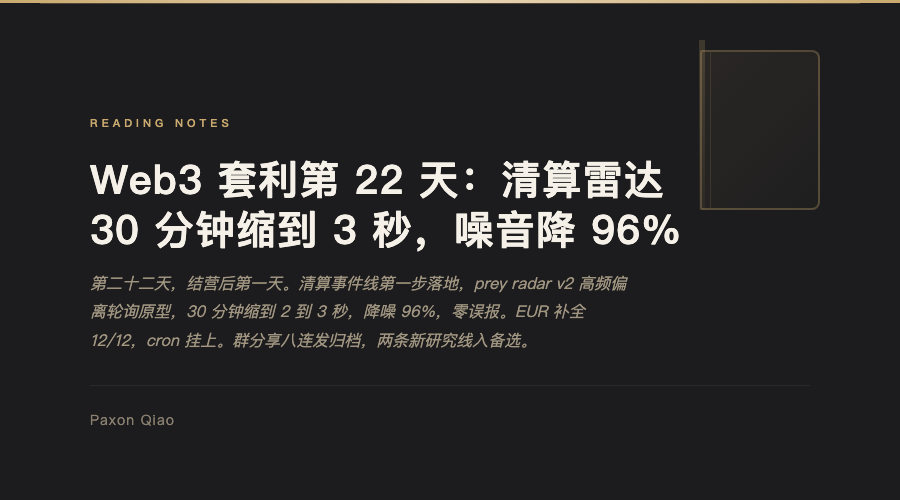
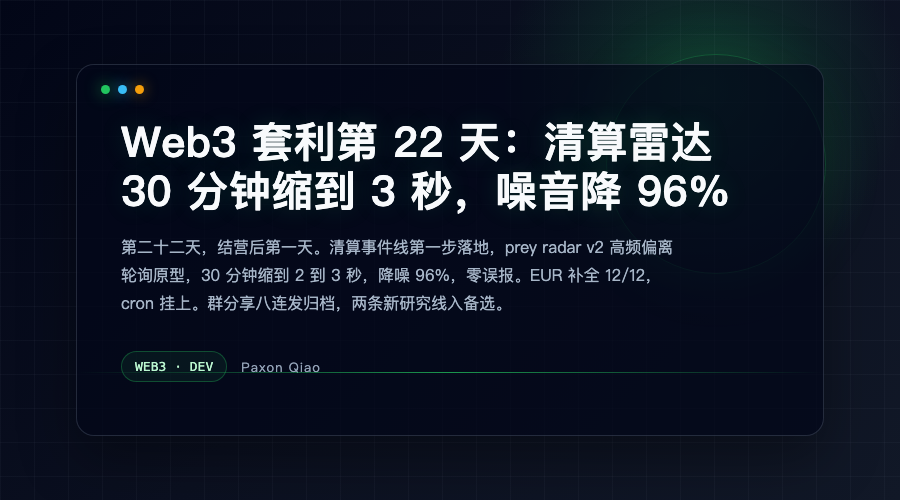
D22封面修复: 二进制混用致literary fallback+正文嵌封面段, 改用target/release新二进制重ship media_id=100012020, HTML 0泄漏+geek-black 247KB, daily补复盘

diff --git a/social/wechat/2026-08-26-d22-prey-radar-v2.cover.html b/social/wechat/2026-08-26-d22-prey-radar-v2.cover.html
@@ -4,20 +4,36 @@
 <meta charset="UTF-8"><meta name="viewport" content="width=device-width,initial-scale=1"><title>Cover</title>
 <style>
 *{margin:0;padding:0;box-sizing:border-box}
-body{width:900px;height:500px;overflow:hidden;font-family:'PingFang SC','Hiragino Sans GB','Microsoft YaHei',serif}
-.cover{width:900px;height:500px;background:#1c1c1e;position:relative;display:flex;flex-direction:column;justify-content:flex-end;padding:80px 90px 70px}
-.cover::before{content:'';position:absolute;top:0;left:0;right:0;height:3px;background:linear-gradient(90deg,#c9a96e,#e8d5b7,#c9a96e)}
-.cover::after{content:'';position:absolute;top:3px;left:40px;right:40px;height:1px;background:rgba(201,169,110,0.3)}
-.book-icon{position:absolute;top:50px;right:80px;width:120px;height:160px;border:2px solid rgba(201,169,110,0.3);border-radius:2px 8px 8px 2px;background:linear-gradient(135deg,rgba(201,169,110,0.08),rgba(201,169,110,0.02))}
-.book-icon::after{content:'';position:absolute;left:8px;top:0;bottom:0;width:1px;background:rgba(201,169,110,0.15)}
-.book-spine{position:absolute;top:40px;right:195px;width:6px;height:170px;background:linear-gradient(180deg,rgba(201,169,110,0.2),rgba(201,169,110,0.05));border-radius:1px}
-.tag{font-size:11px;font-weight:600;letter-spacing:4px;color:#c9a96e;text-transform:uppercase;margin-bottom:24px}
-.title{font-size:40px;font-weight:900;line-height:1.25;color:#f5f0e8;margin-bottom:14px;letter-spacing:1px;max-width:620px}
-.subtitle{font-size:16px;color:#a09580;line-height:1.8;margin-bottom:30px;max-width:540px;font-style:italic}
-.meta{display:flex;align-items:center;gap:10px;border-top:1px solid rgba(255,255,255,0.06);padding-top:24px}
-.author{font-size:14px;color:#8a8070;letter-spacing:1px}
-.dot{color:#c9a96e;margin:0 6px}
+body{width:900px;height:500px;overflow:hidden;font-family:'SF Pro Text',-apple-system,'PingFang SC','Hiragino Sans GB','Microsoft YaHei',sans-serif;background:#030712}
+.cover{width:900px;height:500px;position:relative;overflow:hidden;background:radial-gradient(circle at 78% 18%,rgba(34,197,94,.22),transparent 25%),linear-gradient(135deg,#020617 0%,#0b1020 48%,#111827 100%);color:#e5edf7;padding:64px 76px}
+.grid{position:absolute;inset:0;background-image:linear-gradient(rgba(148,163,184,.08) 1px,transparent 1px),linear-gradient(90deg,rgba(148,163,184,.08) 1px,transparent 1px);background-size:34px 34px;opacity:.65}
+.glow{position:absolute;right:74px;top:54px;width:220px;height:220px;border:1px solid rgba(34,197,94,.28);border-radius:50%;box-shadow:0 0 60px rgba(34,197,94,.16)}
+.panel{position:relative;height:100%;border:1px solid rgba(148,163,184,.22);border-radius:18px;background:rgba(2,6,23,.72);box-shadow:0 22px 55px rgba(0,0,0,.35);padding:38px 44px;display:flex;flex-direction:column;justify-content:center}
+.toolbar{position:absolute;top:20px;left:24px;display:flex;gap:8px}
+.dot{width:9px;height:9px;border-radius:50%;background:#22c55e;box-shadow:0 0 16px rgba(34,197,94,.8)}
+.dot:nth-child(2){background:#38bdf8;box-shadow:0 0 14px rgba(56,189,248,.7)}
+.dot:nth-child(3){background:#f59e0b;box-shadow:0 0 14px rgba(245,158,11,.65)}
+.tag{display:inline-block;color:#86efac;font-size:11px;font-weight:800;letter-spacing:4px;text-transform:uppercase;margin-bottom:24px}
+.prompt{color:#22c55e;margin-right:10px}
+.title{font-size:42px;font-weight:900;line-height:1.16;color:#f8fafc;max-width:640px;margin-bottom:18px;letter-spacing:.4px;text-shadow:0 0 24px rgba(34,197,94,.16)}
+.subtitle{font-size:16px;color:#a7b6c8;line-height:1.75;max-width:560px;margin-bottom:34px}
+.meta{display:flex;align-items:center;gap:14px;color:#94a3b8;font-size:13px}
+.chip{border:1px solid rgba(34,197,94,.32);border-radius:999px;padding:7px 13px;color:#bbf7d0;background:rgba(34,197,94,.08);font-family:'SF Mono',Consolas,monospace}
+.author{letter-spacing:1px}
+.scanline{position:absolute;left:0;right:0;bottom:62px;height:1px;background:linear-gradient(90deg,transparent,#22c55e,transparent);opacity:.75}
 </style>
 </head>
-<body><div class="cover"><div class="book-icon"></div><div class="book-spine"></div><div class="tag">READING NOTES</div><h1 class="title">Web3 套利第 22 天：清算雷达 30 分钟缩到 3 秒，噪音降 96%</h1><p class="subtitle">第二十二天，结营后第一天。清算事件线第一步落地，prey radar v2 高频偏离轮询原型，30 分钟缩到 2 到 3 秒，降噪 96%，零误报。EUR 补全 12/12，cron 挂上。群分享八连发归档，两条新研究线入备选。</p><div class="meta"><span class="author">Paxon Qiao</span></div></div></body>
+<body>
+<main class="cover" data-cover-style="geek-black">
+  <div class="grid"></div><div class="glow"></div>
+  <section class="panel">
+    <div class="toolbar"><span class="dot"></span><span class="dot"></span><span class="dot"></span></div>
+
+    <h1 class="title">Web3 套利第 22 天：清算雷达 30 分钟缩到 3 秒，噪音降 96%</h1>
+    <p class="subtitle">第二十二天，结营后第一天。清算事件线第一步落地，prey radar v2 高频偏离轮询原型，30 分钟缩到 2 到 3 秒，降噪 96%，零误报。EUR 补全 12/12，cron 挂上。群分享八连发归档，两条新研究线入备选。</p>
+    <div class="meta"><span class="chip">WEB3 · DEV</span><span class="author">Paxon Qiao</span></div>
+    <div class="scanline"></div>
+  </section>
+</main>
+</body>
 </html>

diff --git a/social/wechat/2026-08-26-d22-prey-radar-v2.html b/social/wechat/2026-08-26-d22-prey-radar-v2.html
@@ -9,29 +9,6 @@
 <main style="box-sizing: border-box; max-width: 720px; margin: 0 auto; background:#fff; padding:28px 24px; box-shadow:0 12px 36px rgba(15,23,42,0.08);">
 <section style="font-family: -apple-system, 'PingFang SC', 'Hiragino Sans GB', 'Microsoft YaHei', sans-serif; font-size: 15px; line-height: 1.9; letter-spacing: 0.05em; color: #333; background: #fff; padding: 0 4px;">
 
-<!DOCTYPE html>
-<html lang="zh-CN">
-<head>
-<meta charset="UTF-8"><meta name="viewport" content="width=device-width,initial-scale=1"><title>Cover</title>
-<style>
-*{margin:0;padding:0;box-sizing:border-box}
-body{width:900px;height:500px;overflow:hidden;font-family:'PingFang SC','Hiragino Sans GB','Microsoft YaHei',serif}
-.cover{width:900px;height:500px;background:#1c1c1e;position:relative;display:flex;flex-direction:column;justify-content:flex-end;padding:80px 90px 70px}
-.cover::before{content:'';position:absolute;top:0;left:0;right:0;height:3px;background:linear-gradient(90deg,#c9a96e,#e8d5b7,#c9a96e)}
-.cover::after{content:'';position:absolute;top:3px;left:40px;right:40px;height:1px;background:rgba(201,169,110,0.3)}
-.book-icon{position:absolute;top:50px;right:80px;width:120px;height:160px;border:2px solid rgba(201,169,110,0.3);border-radius:2px 8px 8px 2px;background:linear-gradient(135deg,rgba(201,169,110,0.08),rgba(201,169,110,0.02))}
-.book-icon::after{content:'';position:absolute;left:8px;top:0;bottom:0;width:1px;background:rgba(201,169,110,0.15)}
-.book-spine{position:absolute;top:40px;right:195px;width:6px;height:170px;background:linear-gradient(180deg,rgba(201,169,110,0.2),rgba(201,169,110,0.05));border-radius:1px}
-.tag{font-size:11px;font-weight:600;letter-spacing:4px;color:#c9a96e;text-transform:uppercase;margin-bottom:24px}
-.title{font-size:40px;font-weight:900;line-height:1.25;color:#f5f0e8;margin-bottom:14px;letter-spacing:1px;max-width:620px}
-.subtitle{font-size:16px;color:#a09580;line-height:1.8;margin-bottom:30px;max-width:540px;font-style:italic}
-.meta{display:flex;align-items:center;gap:10px;border-top:1px solid rgba(255,255,255,0.06);padding-top:24px}
-.author{font-size:14px;color:#8a8070;letter-spacing:1px}
-.dot{color:#c9a96e;margin:0 6px}
-</style>
-</head>
-<body><div class="cover"><div class="book-icon"></div><div class="book-spine"></div><div class="tag">READING NOTES</div><h1 class="title">Web3 套利第 22 天：清算雷达 30 分钟缩到 3 秒，噪音降 96%</h1><p class="subtitle">第二十二天，结营后第一天。清算事件线第一步落地，prey radar v2 高频偏离轮询原型，30 分钟缩到 2 到 3 秒，降噪 96%，零误报。EUR 补全 12/12，cron 挂上。群分享八连发归档，两条新研究线入备选。</p><div class="meta"><span class="author">Paxon Qiao</span></div></div></body>
-</html>
 <h2 style="font-size: 19px; font-weight: 800; color: #1a1a1a; margin: 2.3em 0 1em; padding: 0 0 10px 14px; border-left: 5px solid #2c2c2c; border-bottom: 1px solid #e5e7eb; letter-spacing: 1px; line-height:1.45;">Web3 套利第 22 天：清算雷达 30 分钟缩到 3 秒，噪音降 96%</h2>
 
 <section style="margin: 1.9em 0; padding: 18px 20px 18px 24px; background: #f8f8f8; border: 1px solid #e5e7eb; border-left: 4px solid #2c2c2c; border-radius: 0 8px 8px 0; box-shadow: 0 2px 8px rgba(15,23,42,0.05); color: #888; font-size: 15px; line-height: 1.9; letter-spacing: 0.08em;">链上套利残酷共学 · 结营后第一天

diff --git a/daily/2026-08-26.md b/daily/2026-08-26.md
@@ -85,3 +85,97 @@
 - 封面防泄漏 0 处 + qrcode 新码 0822 md5 一致（a980989a9003...）
 - 结果：ship 成功 media_id=100012006，手机预览已发 qpj4812701762（test-yulan ret=0）
 - 下一步：人工微信后台确认封面/原创后发布
+# 2026-08-26（结营后 Day 1）— prey radar v2：高频偏离轮询原型
+
+> 定位：D21 结营后「清算事件线（最高优先）」第一步落地。官方 21 天路线图已完成（D21=08-25 结营），今天开始执行 21 天总结里的下一步主攻方向 #1。
+
+## 主线：高频偏离轮询原型（30min cron → 2-3s/tick）
+
+**为什么做**：v1 prey radar 是 30min cron 全市场扫描，实测跑一次 >180s 超时（200 市场串行 ≈720s）——30min 粒度对清算窗口（秒~分钟级）毫无意义。08-25 daily 已定信号链修正：不监听预言机交易，改高频轮询「现货 vs oracle 偏离」→ 偏离突变 = 预言机即将更新 = 清算窗口临近。
+
+**怎么做**（四个实测关键）：
+1. **JSON-RPC 批量 eth_call 可用**（publicnode 2.2s/批）——1 次请求拿全部 oracle price()。此前误判「不支持批量」= 拿代币地址调 price() 会 revert，不是批量问题
+2. **DeFiLlama 批量多币种 >10 币单请求返回空**（9 币 1.9s 正常）→ 分块 ≤8
+3. **checksum 坑**：DeFiLlama key 全小写 vs GraphQL checksum 地址 → 不统一小写全 cache miss（WETH 天然小写才侥幸命中）
+4. watchlist 默认 top-12 活跃市场（按 supply），每 tick = 1 次批量 RPC + 1 次批量 DeFiLlama（现货 5s 缓存）
+
+**结果**（全部实测）：
+- `--once` 单次快照 9.7s：11/12 市场解析成功；活跃市场全部 ok（偏离 <25bps），mGLO −638bps（oracle 落后偏安全，与 v1 一致）；**当前无埋雷**
+- 45s 高频实测：降采样 22 条（vs 全量 540，降 96%）；安静期漂移仅 **−1.7~+1.7bps**/tick，零误报；有效节奏 ~2.2-2.5s/tick
+- 信号方向语义确认：`dev_bps = (oracle−spot)/oracle`，**正值 = oracle 高估 = 危险方向**（下修 → 清算窗口）
+
+**已知限制**：cbBTC→EURC 类 EUR 报价预言机未解析（需 EUR/USD 交叉汇率）；节奏受公共 RPC 限制（Flashblocks WS 到位后才 <200ms）；DeFiLlama 现货延迟 ~5-7s；未接 HF scanner 联动。
+
+**意义**：清算事件线从「30min 级哨兵」升级到「2-3s 级雷达」——偏离突变检测（Δ≥20bps/tick）是预言机更新的前置信号，这是结营后主攻方向 #1 的执行基建第一块。下一环：挂 cron 窗口报警 → Flashblocks WS → HF scanner 联动。
+
+## 产出
+
+- `scripts/morpho_prey_radar_v2.py` — 高频偏离轮询原型（--once 快照 / --duration N --quiet 窗口报警 / --watch N 可调）
+- `notes/solana/prey-radar-v2-highfreq-20260826.md` — 设计 + 实测 + 限制 + 下一步
+- `data/prey_radar_v2.jsonl` — 降采样高频数据（不入库）
+
+## 收尾
+
+- [x] 新脚本查重（git log + scripts/ 清单：无既有高频轮询器）
+- [x] README 工具区挂载 v2 条目
+- [x] 45s 实测验证（非模拟）
+- [ ] ICL 打卡 08-26（当天必须完成）
+- [x] ICL 打卡 08-26 完成 ✅（HTTP 201, id=cmt9qi2ui13o8ro297pana299, proxy 通道）
+
+## 追加：群分享归档（Taoli.Tools 科普文）
+
+- 用户贴 Taoli.Tools「为什么我使用」全文 → `notes/group-share-taoli-why-20260826.md`
+- 核验结论：4 模型（期现基差/两永续费差/跨所库存/统一公式）与已有框架 100% 重合，无新 edge 主张
+- 工具决策不变（08-24 brucexu 系列同款结论：$5k 不装）；吸收安全建议=API 只开读取+交易+IP 白名单
+
+## 追加2：Bruce X 链接 + Taoli 教程续段
+
+- X 链接 brucexu_eth/2091703802974097677 = 08-24 已归档同篇（跨所反向对冲四做法+统一公式+LI.FI 登记表），结论复用不重复核验；TUT 实战篇仍待发布
+- Taoli 教程续段（API 最小权限/CORS 故障排查/单标签页 DB/建交易对）→ 归档 `notes/group-share-taoli-deploy-20260826.md`
+- 可执行项：LI.FI 登记表（8-31 截止）当前用量低暂不登记；工具决策不变
+
+## 追加3：X 四连发归档核验
+
+- Qi8888btc Hook 撞池 / cnfinancewatch 量化科普 / 0xLogicLog TUT 穿仓图（08-25 又插针 -7.61% 振幅 12.16%）/ Solana_zh Virtuals×Solana agent 代币化官方公告 → `notes/group-share-x-four-links-20260826.md`
+- 判定：Hook 撞池=参数错配探测列入备选研究线；TUT 插针入档（事件驱动吃尸体互证）；Virtuals 官方信息归档（新币事件源联动）
+
+## 追加4：Manifold 量化回忆录归档
+
+- @mev15_eth 转 Manifold 联创长文（CEX-DEX arb 回忆）→ `notes/manifold-cex-dex-arb-memoir-20260826.md`
+- 核验：2025 底 CEX-DEX 衰减=我们否决该方向的第三方印证；Hydra v2（Aave 借贷再平衡）记入跨所备选；数字不可复制
+
+## 追加5：wquguru 方法论帖归档
+
+- AI 协作三条规矩（规划前置/拒绝黑盒验收/AI执行者）→ `notes/wquguru-ai-collab-method-20260826.md`
+- 互证：与 AGENTS.md 模式一字不差；「oracle 时滞/清算断崖」= prey radar v2 同题
+
+## 追加6：X 第 2 批归档
+
+- ⑤老鹰 PM 机器人返佣帖：同 repo 08-21 已核验，结论复用不采信
+- ⑥yourQuantGuy entropy 开源预热+扫盲：刨根问底清单与利润公式互证；entropy 框架明天开源值得看（对照 scanner）；tier4 邀请码不点
+
+## 追加7：X 第 3 批归档
+
+- ⑦ Entropy↔Lighter 套利工具（推广帖，repo 6★无 license 不装；机制无新意；Entropy/Lighter=币股 RWA 生态）
+- ⑧ Hermes 生态五件套（repo 全真实，litprog 253★/hermes-life-os 182★，可挑 1-2 试用）
+
+## 追加8：prey radar v2 EUR 修复完成
+
+- resolve 加 loan_usd 交叉转换（EURC 类市场）→ **12/12 市场全解析**（cbBTC→EURC -1.5bps 与 cbBTC→USDC 一致，交叉正确性验证）
+- cron 首跑确认：7954368ea467 19:15→19:24 status ok 无报警
+
+## 公众号发布（2026-08-28 Hermes）
+
+- 发布内容：D22（08-26 结营后第一天）完整笔记改写 → `social/wechat/2026-08-26-d22-prey-radar-v2.md`
+- 怎么做：daily 主线（prey radar v2 高频轮询）+ 8 个追加项全量覆盖；合规 PASS（digest 114/120，冒号/破折号/翻案句 0）；素材纪律 grep 0 越界
+- 共学卡片：按用户要求取消（共学已结营），文末无「关于本次共学」callout，HTML 验证 0 处
+- 封面防泄漏 0 处 + qrcode 新码 0822 md5 一致（a980989a9003...）
+- 结果：ship 最终 media_id=100012020（经历三次 ship：100012006 literary 封面 → 100012013 旧二进制正文嵌封面 → 100012020 新二进制干净版），手机预览已发 qpj4812701762
+- 下一步：人工微信后台确认封面/原创后发布
+
+## 封面事故复盘（2026-08-28 Hermes）
+
+- 现象：用户预览发现封面变回 literary（READING NOTES 书图标）+ 正文首屏出现 `$TECH NOTES。WEB3 · DEVPaxon Qiao`
+- 根因：**二进制混用**——`~/.cargo/bin/moonpub`（08-13 旧版）没有 08-25 的两个修复（3d67d91 封面不嵌入正文 + 4c9d8dc 风格校验）；正确二进制是 `/Users/qiaopengjun/Code/Rust/moonpub/target/release/moonpub`（08-26 编译，D21 用的就是它）
+- 第一次 ship 漏 `--style geek-black` → 静默 fallback literary；第二次换旧二进制加 style → 封面对了但正文嵌封面段；第三次用新二进制 → HTML 0 泄漏（READING/BUILD/TECH/WEB3·DEV 全 0）+ cover geek-black 247KB ✅
+- 防复发：**ship 必须用 target/release 新二进制 + --articles + --style geek-black**；ship 后 grep html 确认正文无 `WEB3 · DEV`/`data-cover-style`/`book-icon`
